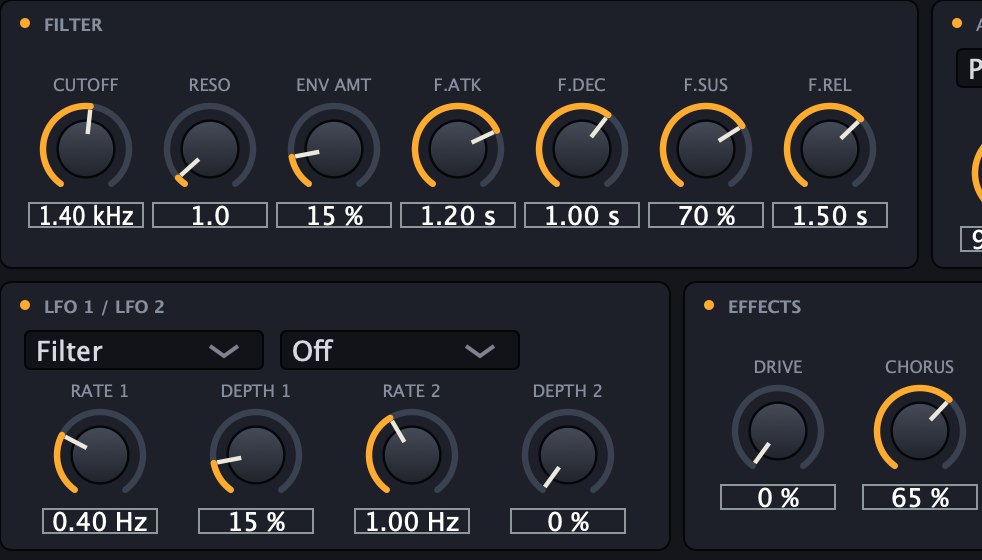
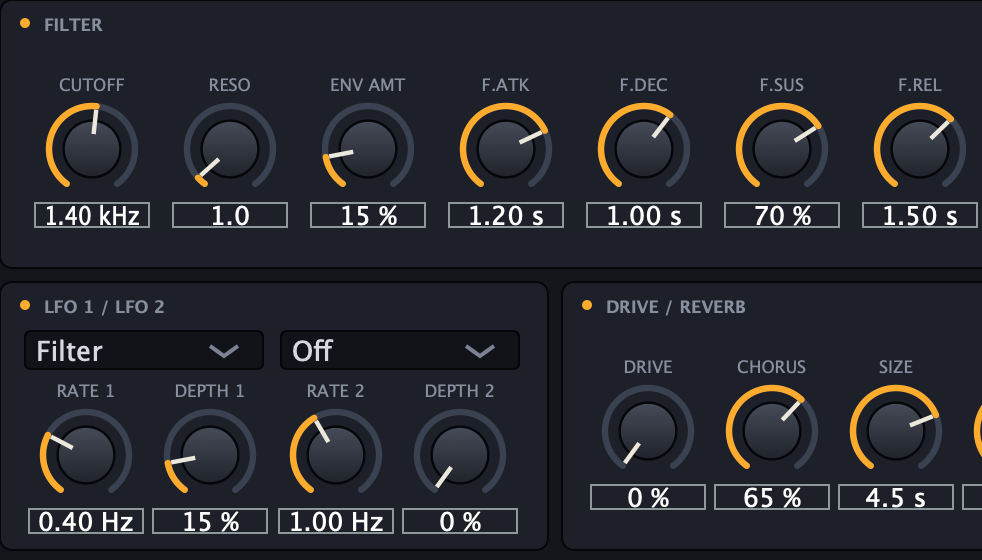
Site: v1.1 screenshots (new FX/delay layout), delay feature card

Changed region(s): [[0.0305, 0.5161, 1.0, 0.9714], [0.0305, 0.0304, 1.0, 0.4554]]

diff --git a/index.html b/index.html
@@ -73,8 +73,8 @@
     box-shadow:0 30px 80px rgba(0,0,0,.55), 0 0 90px rgba(255,171,46,.07);
   }
   /* wide breakout for the hero shot and video — extends past the text column */
-  .breakout{max-width:1142px;margin:0 auto;padding:0 22px}
-  .breakout .frame{max-width:1097px}   /* exactly half the 2195px render = 1:2 retina mapping */
+  .breakout{max-width:1262px;margin:0 auto;padding:0 22px}
+  .breakout .frame{max-width:1217px}   /* half the 2435px render = 1:2 retina mapping */
   /* the hero shot is a 2x render of the 878px-wide plugin: cap it at native
      size so it maps 1:1 onto retina pixels instead of being resampled */
   .hero .frame{max-width:878px}
@@ -148,7 +148,7 @@
 </header>
 
 <div class="breakout">
-  <div class="frame"><img src="img/shot-trap808.png" width="2195" height="1775"
+  <div class="frame"><img src="img/shot-trap808.png" width="2435" height="1775"
        alt="The Ember-8 plugin interface with the Trap 808 preset loaded"></div>
   <div class="caption">THE PLUGIN &mdash; TRAP 808 LOADED, RENDERED FROM THE REAL UI</div>
 </div>
@@ -180,7 +180,10 @@
       <p>24 dB/oct analog-modeled lowpass with musical resonance and its own ADSR.</p></div>
     <div class="card"><b>Deep modulation</b>
       <p>Two LFOs plus a 4-slot mod matrix &mdash; route velocity, envelopes, or LFOs
-         to pitch, cutoff, resonance, or amp.</p></div>
+         to pitch, cutoff, resonance, or amp. Poly, mono, and true legato voice modes.</p></div>
+    <div class="card"><b>A delay that behaves</b>
+      <p>BPM-synced (straight / dotted / triplet), tone-shaped feedback, and
+         tape-style wobble that detunes the repeats.</p></div>
     <div class="card"><b>Import your own wavetables</b>
       <p>Load any single-cycle WAV into OSC&nbsp;1. It's band-limited automatically,
          so it stays clean at every note.</p></div>
